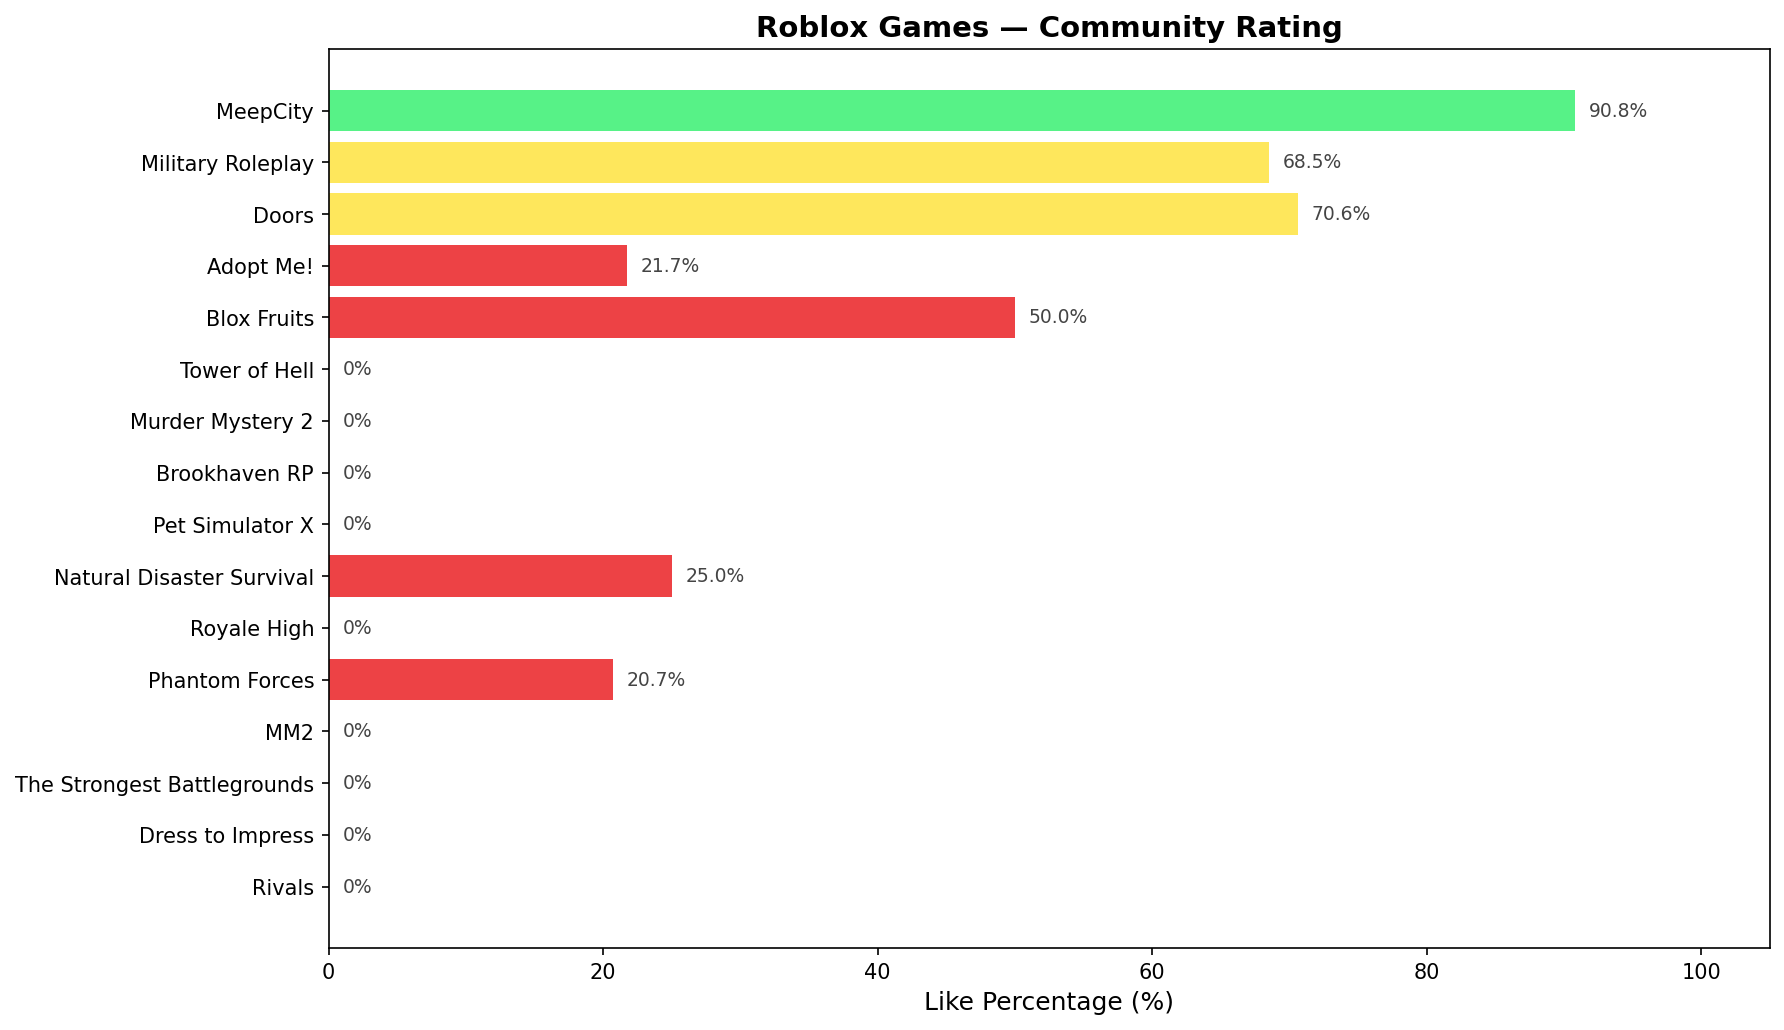
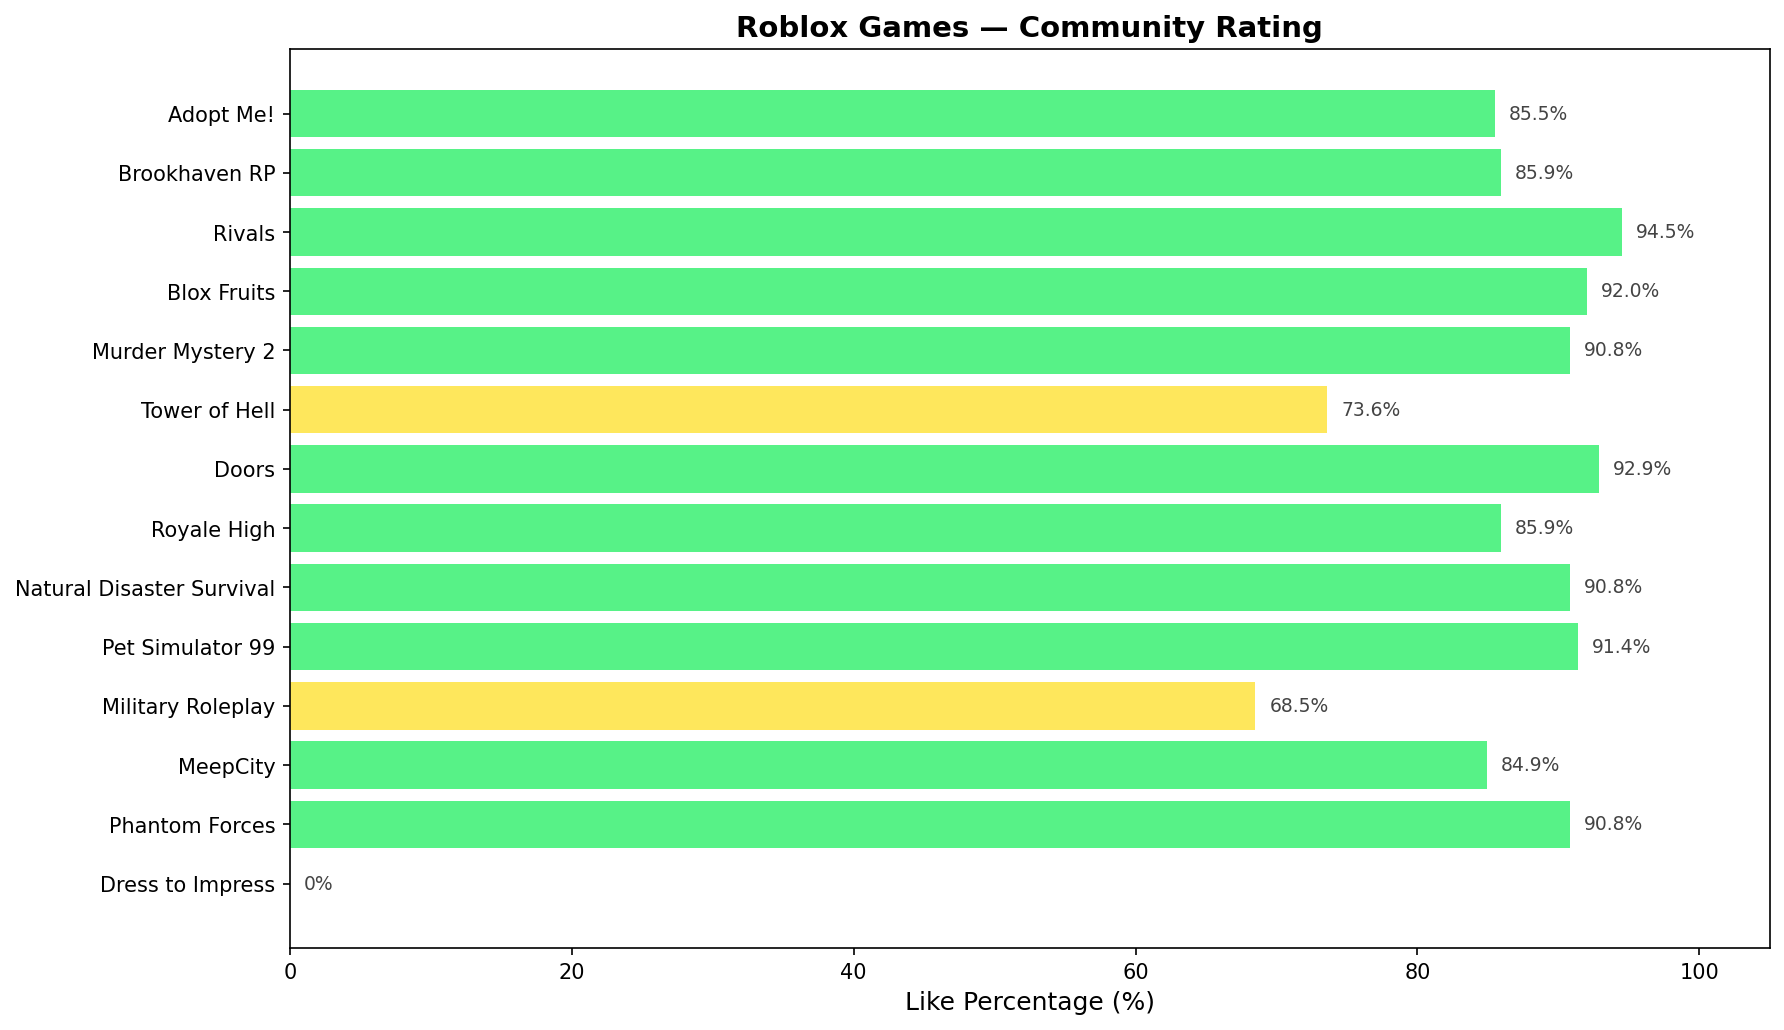
fix: use correct universe IDs, all games now show data

diff --git a/scraper.py b/scraper.py
@@ -16,47 +16,41 @@ import time
 from datetime import datetime
 
 # ============================================================
-# CONFIGURATION — edit this list to track whatever games you want
-# Format: (Universe ID, Game Name)
-# To find a game's Universe ID:
-#   1. Go to the game page on roblox.com
-#   2. Copy the number from the URL (that's the Place ID)
-#   3. Use: https://apis.roblox.com/universes/v1/places/PLACE_ID/universe
+# CONFIGURATION — Universe IDs mapped to game names
+# To add a new game:
+#   1. Get the Place ID from the game URL: roblox.com/games/PLACE_ID/...
+#   2. Visit: https://apis.roblox.com/universes/v1/places/PLACE_ID/universe
+#   3. Copy the universeId and add it below
 # ============================================================
 
-GAMES = [
-    (286090429,  "Adopt Me!"),
-    (2753915549, "Blox Fruits"),
-    (1962086868, "Tower of Hell"),
-    (2474168535, "Murder Mystery 2"),
-    (292439477,  "Brookhaven RP"),
-    (3260590327, "Pet Simulator X"),
-    (65241, "MeepCity"),
-    (189707, "Natural Disaster Survival"),
-    (301549746, "Royale High"),
-    (4252370517, "Doors"),
-    (13822889, "Phantom Forces"),
-    (1224212277, "MM2"),
-    (3110005891, "The Strongest Battlegrounds"),
-    (6284583030, "Dress to Impress"),
-    (5765085099, "Rivals"),
-    (2177157737, "Military Roleplay"),
-]
+GAMES = {
+    383310974:  "Adopt Me!",
+    994732206:  "Blox Fruits",
+    703124385:  "Tower of Hell",
+    66654135:   "Murder Mystery 2",
+    1686885941: "Brookhaven RP",
+    2316994223: "Pet Simulator 99",
+    140239261:  "MeepCity",
+    65241:      "Natural Disaster Survival",
+    321778215:  "Royale High",
+    2440500124: "Doors",
+    113491250:  "Phantom Forces",
+    4335335911: "Dress to Impress",
+    6035872082: "Rivals",
+    2177157737: "Military Roleplay",
+}
 
-API_URL = "https://games.roblox.com/v1/games"
-VOTES_URL = "https://games.roblox.com/v1/games/votes"
+GAMES_API = "https://games.roblox.com/v1/games"
+VOTES_API = "https://games.roblox.com/v1/games/votes"
 DATA_DIR = "data"
 CHARTS_DIR = "charts"
 
 
 def fetch_game_details(universe_ids: list[int]) -> dict:
     """Fetch game details from Roblox API for a list of universe IDs."""
-    # API accepts up to 100 universe IDs at once
     ids_str = ",".join(str(uid) for uid in universe_ids)
-    
-    response = requests.get(API_URL, params={"universeIds": ids_str})
+    response = requests.get(GAMES_API, params={"universeIds": ids_str})
     response.raise_for_status()
-    
     data = response.json().get("data", [])
     return {game["id"]: game for game in data}
 
@@ -64,35 +58,31 @@ def fetch_game_details(universe_ids: list[int]) -> dict:
 def fetch_votes(universe_ids: list[int]) -> dict:
     """Fetch vote (like/dislike) data for games."""
     ids_str = ",".join(str(uid) for uid in universe_ids)
-    
-    response = requests.get(VOTES_URL, params={"universeIds": ids_str})
+    response = requests.get(VOTES_API, params={"universeIds": ids_str})
     response.raise_for_status()
-    
     data = response.json().get("data", [])
     return {item["id"]: item for item in data}
 
 
 def scrape_all() -> list[dict]:
     """Scrape stats for all configured games. Returns a list of dicts."""
-    universe_ids = [uid for uid, _ in GAMES]
-    name_map = {uid: name for uid, name in GAMES}
-    
-    print(f"[*] Fetching data for {len(universe_ids)} games...")
-    
+    universe_ids = list(GAMES.keys())
+
+    print(f"[*] Fetching stats for {len(universe_ids)} games...")
     details = fetch_game_details(universe_ids)
     votes = fetch_votes(universe_ids)
-    
+
     results = []
     timestamp = datetime.now().strftime("%Y-%m-%d %H:%M:%S")
-    
+
     for uid in universe_ids:
         game = details.get(uid, {})
         vote = votes.get(uid, {})
-        
+
         row = {
             "timestamp": timestamp,
             "universe_id": uid,
-            "name": name_map.get(uid, game.get("name", "Unknown")),
+            "name": GAMES[uid],
             "playing": game.get("playing", 0),
             "visits": game.get("visits", 0),
             "favorites": game.get("favoritedCount", 0),
@@ -100,13 +90,13 @@ def scrape_all() -> list[dict]:
             "dislikes": vote.get("downVotes", 0),
             "like_pct": 0,
         }
-        
+
         total_votes = row["likes"] + row["dislikes"]
         if total_votes > 0:
             row["like_pct"] = round(row["likes"] / total_votes * 100, 1)
-        
+
         results.append(row)
-    
+
     return results
 
 
@@ -114,134 +104,140 @@ def save_csv(results: list[dict], filename: str = "roblox_stats.csv"):
     """Save results to CSV. Appends if file exists (for tracking over time)."""
     os.makedirs(DATA_DIR, exist_ok=True)
     filepath = os.path.join(DATA_DIR, filename)
-    
+
     file_exists = os.path.exists(filepath)
-    
+
     with open(filepath, "a", newline="", encoding="utf-8") as f:
         writer = csv.DictWriter(f, fieldnames=results[0].keys())
         if not file_exists:
             writer.writeheader()
         writer.writerows(results)
-    
+
     print(f"[+] Saved {len(results)} rows to {filepath}")
     return filepath
 
 
 def print_table(results: list[dict]):
     """Print a clean table to the terminal."""
-    # Sort by current players (highest first)
     sorted_results = sorted(results, key=lambda x: x["playing"], reverse=True)
-    
+
     print("\n" + "=" * 85)
     print(f"  {'Game':<30} {'Playing':>10} {'Visits':>14} {'Favorites':>12} {'Like %':>8}")
     print("=" * 85)
-    
+
     for r in sorted_results:
-        visits_str = f"{r['visits']:,}"
-        favs_str = f"{r['favorites']:,}"
-        playing_str = f"{r['playing']:,}"
-        
-        print(f"  {r['name']:<30} {playing_str:>10} {visits_str:>14} {favs_str:>12} {r['like_pct']:>7}%")
-    
+        print(f"  {r['name']:<30} {r['playing']:>10,} {r['visits']:>14,} {r['favorites']:>12,} {r['like_pct']:>7}%")
+
     print("=" * 85)
-    
     total_playing = sum(r["playing"] for r in results)
     print(f"  Total players across tracked games: {total_playing:,}")
     print(f"  Scraped at: {results[0]['timestamp']}\n")
+
+
+def format_number(n: int) -> str:
+    """Format large numbers: 1.2B, 345M, 12.3K, or raw number."""
+    if n >= 1_000_000_000:
+        return f"{n / 1_000_000_000:.1f}B"
+    elif n >= 1_000_000:
+        return f"{n / 1_000_000:.0f}M"
+    elif n >= 1_000:
+        return f"{n / 1_000:.1f}K"
+    else:
+        return str(n)
 
 
 def generate_charts(results: list[dict]):
     """Generate bar charts from the scraped data."""
     try:
         import matplotlib
-        matplotlib.use("Agg")  # Non-interactive backend
+        matplotlib.use("Agg")
         import matplotlib.pyplot as plt
     except ImportError:
         print("[!] matplotlib not installed. Run: pip install matplotlib")
-        print("    Skipping chart generation.")
         return
-    
+
     os.makedirs(CHARTS_DIR, exist_ok=True)
     sorted_results = sorted(results, key=lambda x: x["playing"], reverse=True)
-    
+
     names = [r["name"] for r in sorted_results]
     playing = [r["playing"] for r in sorted_results]
     visits = [r["visits"] for r in sorted_results]
     like_pcts = [r["like_pct"] for r in sorted_results]
-    
+
     # --- Chart 1: Current Players ---
     fig, ax = plt.subplots(figsize=(12, 7))
     bars = ax.barh(names[::-1], playing[::-1], color="#5865F2", edgecolor="none")
     ax.set_xlabel("Players Online Right Now", fontsize=12)
-    ax.set_title("Roblox Games — Live Player Count", fontsize=14, fontweight="bold")
-    ax.tick_params(axis="y", labelsize=10)
-    
-    # Add value labels on bars
+    ax.set_title("Roblox Games \u2014 Live Player Count", fontsize=14, fontweight="bold")
+
+    max_playing = max(playing) if max(playing) > 0 else 1
     for bar in bars:
         width = bar.get_width()
-        label = f"{width:,.0f}"
-        ax.text(width + max(playing) * 0.01, bar.get_y() + bar.get_height() / 2,
-                label, va="center", fontsize=9, color="#444")
-    
+        ax.text(width + max_playing * 0.01, bar.get_y() + bar.get_height() / 2,
+                format_number(int(width)), va="center", fontsize=9, color="#444")
+
     plt.tight_layout()
-    path1 = os.path.join(CHARTS_DIR, "player_count.png")
-    plt.savefig(path1, dpi=150, bbox_inches="tight")
+    plt.savefig(os.path.join(CHARTS_DIR, "player_count.png"), dpi=150, bbox_inches="tight")
     plt.close()
-    print(f"[+] Chart saved: {path1}")
-    
+    print("[+] Chart saved: charts/player_count.png")
+
     # --- Chart 2: Like Percentage ---
     colors = ["#57F287" if pct >= 80 else "#FEE75C" if pct >= 60 else "#ED4245" for pct in like_pcts]
-    
+
     fig, ax = plt.subplots(figsize=(12, 7))
-    bars = ax.barh(names[::-1], like_pcts[::-1],
-                   color=colors[::-1], edgecolor="none")
+    bars = ax.barh(names[::-1], like_pcts[::-1], color=colors[::-1], edgecolor="none")
     ax.set_xlabel("Like Percentage (%)", fontsize=12)
-    ax.set_title("Roblox Games — Community Rating", fontsize=14, fontweight="bold")
+    ax.set_title("Roblox Games \u2014 Community Rating", fontsize=14, fontweight="bold")
     ax.set_xlim(0, 105)
-    ax.tick_params(axis="y", labelsize=10)
-    
+
     for bar, pct in zip(bars, like_pcts[::-1]):
         ax.text(bar.get_width() + 1, bar.get_y() + bar.get_height() / 2,
                 f"{pct}%", va="center", fontsize=9, color="#444")
-    
+
     plt.tight_layout()
-    path2 = os.path.join(CHARTS_DIR, "like_percentage.png")
-    plt.savefig(path2, dpi=150, bbox_inches="tight")
+    plt.savefig(os.path.join(CHARTS_DIR, "like_percentage.png"), dpi=150, bbox_inches="tight")
     plt.close()
-    print(f"[+] Chart saved: {path2}")
-    
-    # --- Chart 3: Total Visits (log scale) ---
-    fig, ax = plt.subplots(figsize=(12, 7))
-    bars = ax.barh(names[::-1], visits[::-1], color="#EB459E", edgecolor="none")
-    ax.set_xlabel("Total Visits (log scale)", fontsize=12)
-    ax.set_title("Roblox Games — All-Time Visits", fontsize=14, fontweight="bold")
-    ax.set_xscale("log")
-    ax.tick_params(axis="y", labelsize=10)
-    
-    for bar in bars:
-        width = bar.get_width()
-        if width > 0:
-            label = f"{width / 1_000_000_000:.1f}B" if width >= 1_000_000_000 else f"{width / 1_000_000:.0f}M"
-            ax.text(width * 1.3, bar.get_y() + bar.get_height() / 2,
-                    label, va="center", fontsize=9, color="#444")
-    
-    plt.tight_layout()
-    path3 = os.path.join(CHARTS_DIR, "total_visits.png")
-    plt.savefig(path3, dpi=150, bbox_inches="tight")
-    plt.close()
-    print(f"[+] Chart saved: {path3}")
+    print("[+] Chart saved: charts/like_percentage.png")
+
+    # --- Chart 3: Total Visits ---
+    # Only include games with visits > 0 for clean log scale
+    visit_data = [(n, v) for n, v in zip(names, visits) if v > 0]
+
+    if visit_data:
+        visit_data.sort(key=lambda x: x[1])
+        v_names, v_visits = zip(*visit_data)
+
+        fig, ax = plt.subplots(figsize=(12, 7))
+        bars = ax.barh(list(v_names), list(v_visits), color="#EB459E", edgecolor="none")
+        ax.set_xlabel("Total Visits (log scale)", fontsize=12)
+        ax.set_title("Roblox Games \u2014 All-Time Visits", fontsize=14, fontweight="bold")
+        ax.set_xscale("log")
+
+        for bar in bars:
+            width = bar.get_width()
+            if width > 0:
+                ax.text(width * 1.3, bar.get_y() + bar.get_height() / 2,
+                        format_number(int(width)), va="center", fontsize=9, color="#444")
+
+        plt.tight_layout()
+        plt.savefig(os.path.join(CHARTS_DIR, "total_visits.png"), dpi=150, bbox_inches="tight")
+        plt.close()
+        print("[+] Chart saved: charts/total_visits.png")
+    else:
+        print("[!] No visit data to chart.")
 
 
 def track_mode(interval_minutes: int = 30):
     """Run the scraper on a loop, appending data each time."""
-    print(f"[*] Tracking mode — scraping every {interval_minutes} min. Press Ctrl+C to stop.\n")
-    
+    print(f"[*] Tracking mode \u2014 scraping every {interval_minutes} min. Press Ctrl+C to stop.\n")
+
     while True:
         try:
             results = scrape_all()
-            save_csv(results)
-            print_table(results)
-            generate_charts(results)
+            if results:
+                save_csv(results)
+                print_table(results)
+                generate_charts(results)
             print(f"[*] Next scrape in {interval_minutes} min...\n")
             time.sleep(interval_minutes * 60)
         except KeyboardInterrupt:
@@ -257,10 +253,13 @@ def main():
         track_mode()
     else:
         results = scrape_all()
-        save_csv(results)
-        print_table(results)
-        generate_charts(results)
-        print("[*] Done! Check the 'data' and 'charts' folders.")
+        if results:
+            save_csv(results)
+            print_table(results)
+            generate_charts(results)
+            print("[*] Done! Check the 'data' and 'charts' folders.")
+        else:
+            print("[!] No data scraped. Check your connection and try again.")
 
 
 if __name__ == "__main__":
